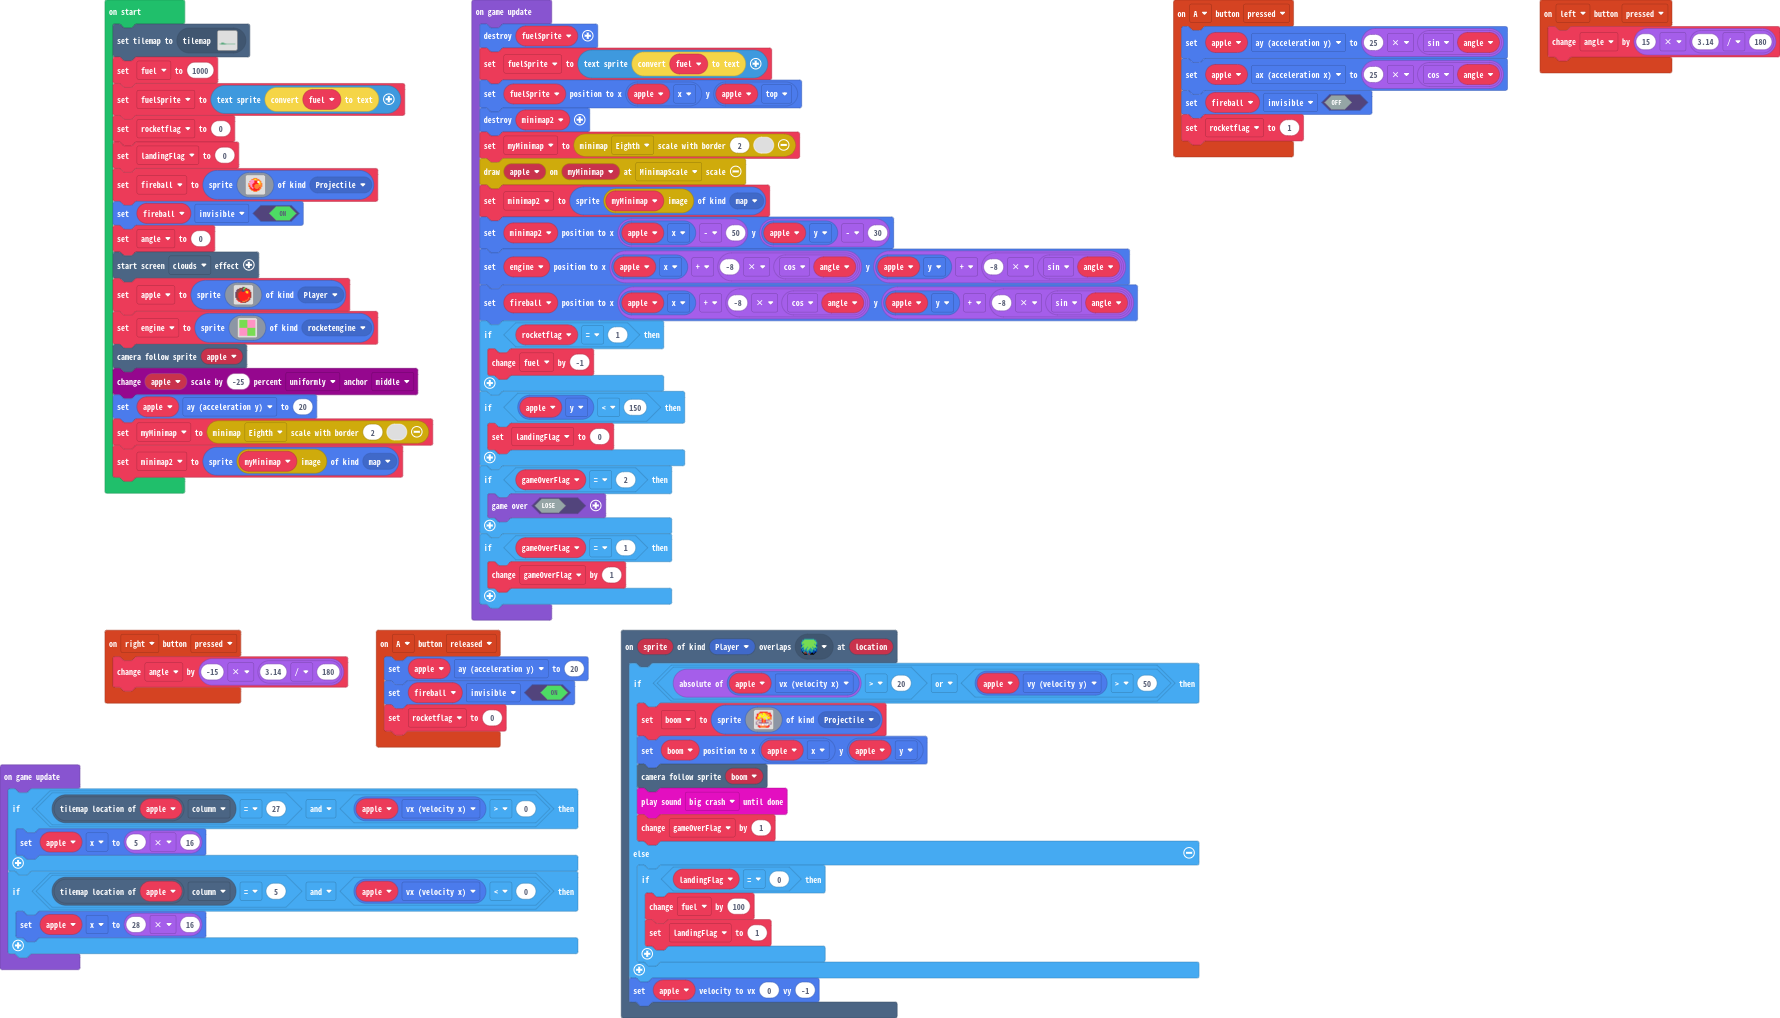
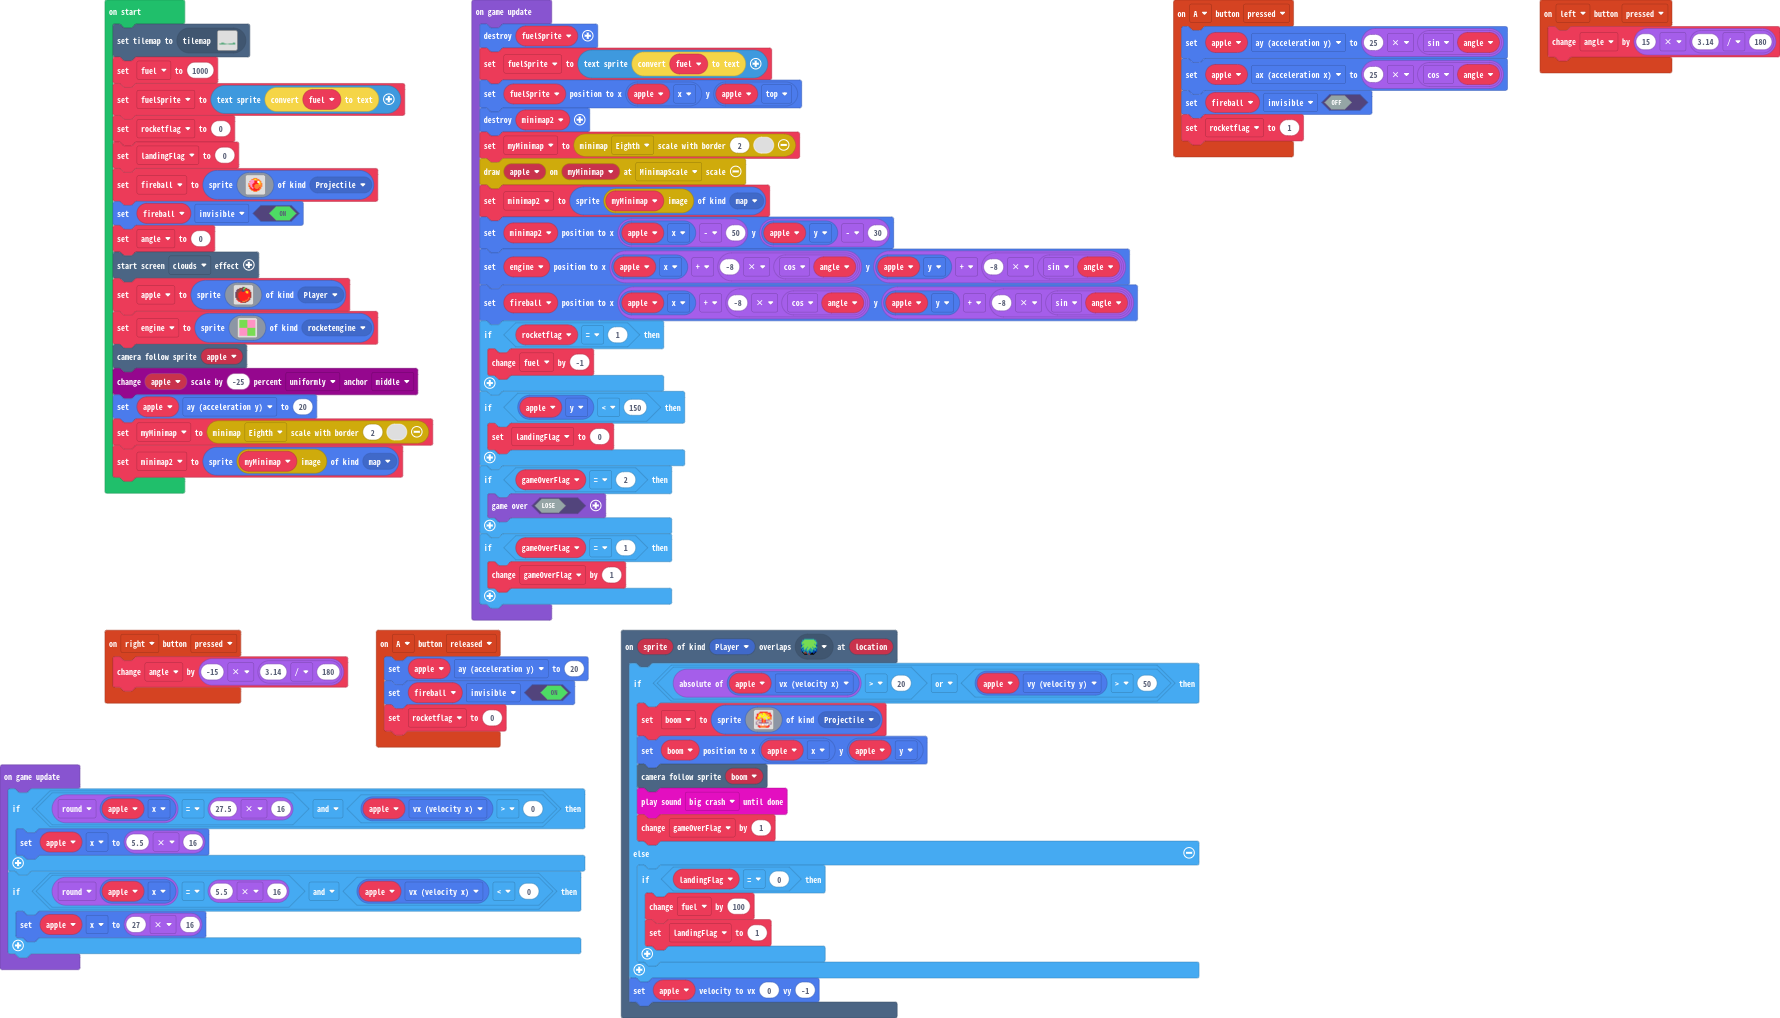
still working on wrapping

Changed region(s): [[0.0309, 0.7613, 0.3399, 0.9136]]

diff --git a/main.ts b/main.ts
@@ -136,10 +136,10 @@ game.onUpdate(function () {
     }
 })
 game.onUpdate(function () {
-    if (apple.tilemapLocation().column == 27 && apple.vx > 0) {
-        apple.x = 5 * 16
+    if (Math.round(apple.x) == 27.5 * 16 && apple.vx > 0) {
+        apple.x = 5.5 * 16
     }
-    if (apple.tilemapLocation().column == 5 && apple.vx < 0) {
-        apple.x = 28 * 16
+    if (Math.round(apple.x) == 5.5 * 16 && apple.vx < 0) {
+        apple.x = 27 * 16
     }
 })
